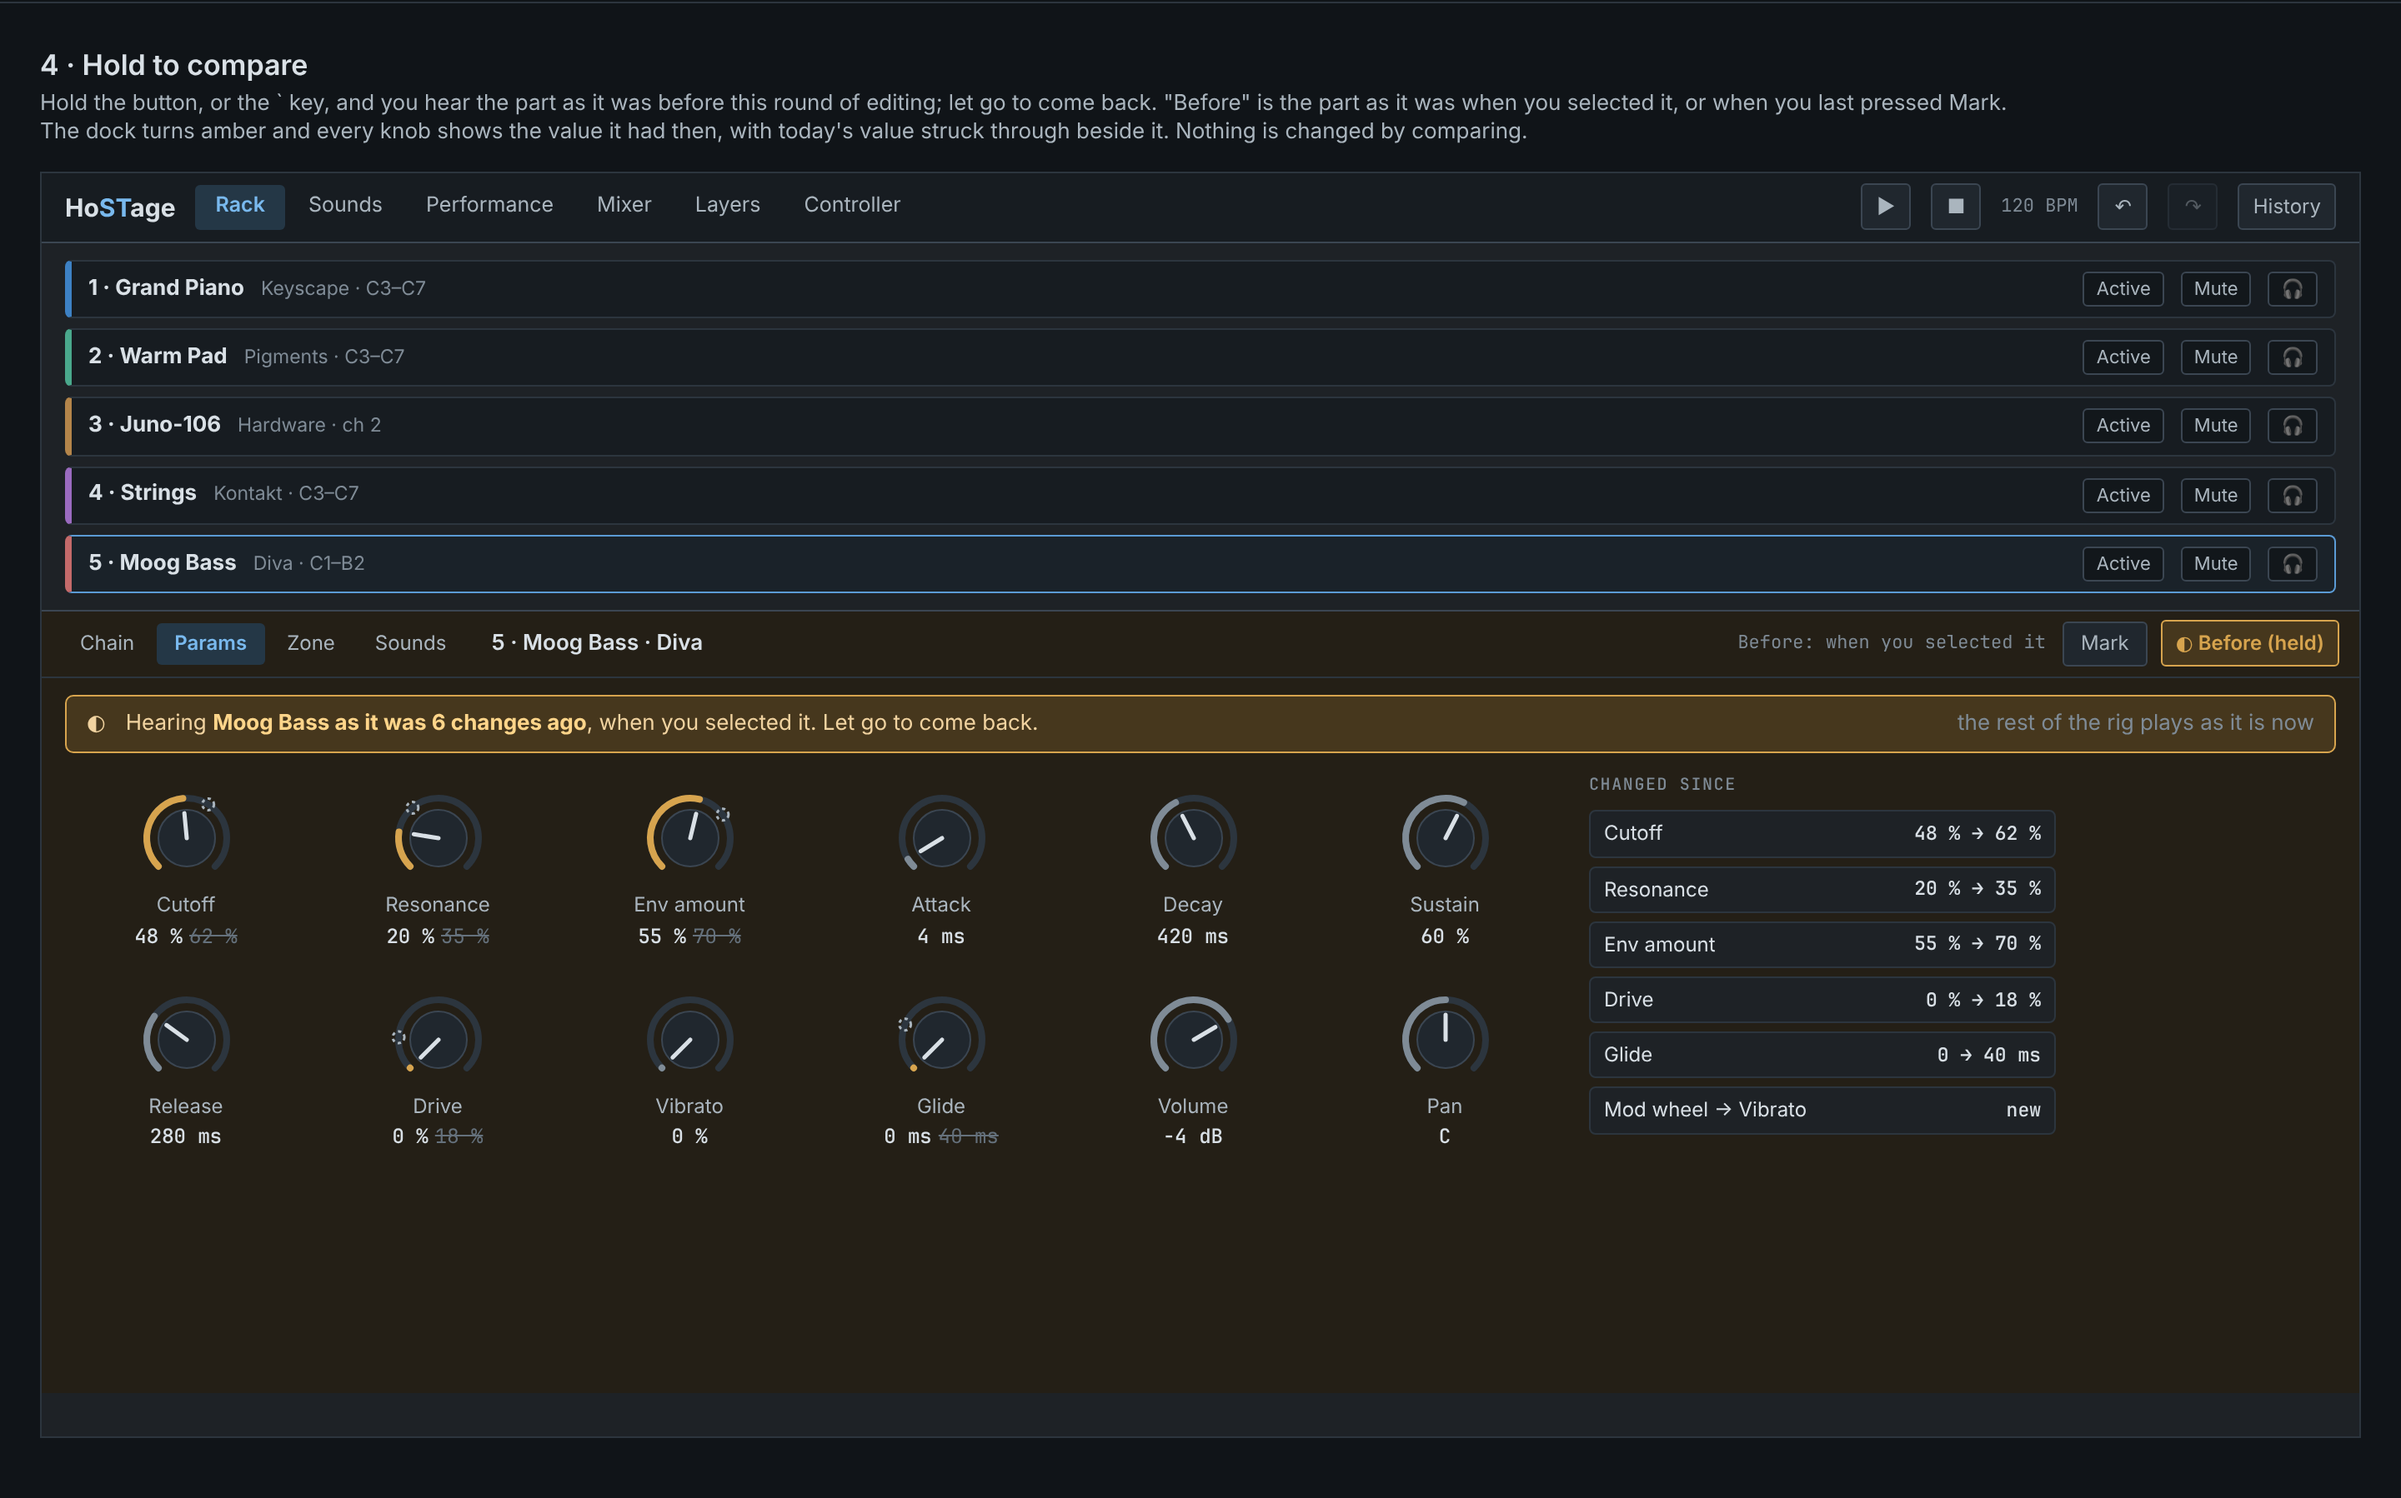
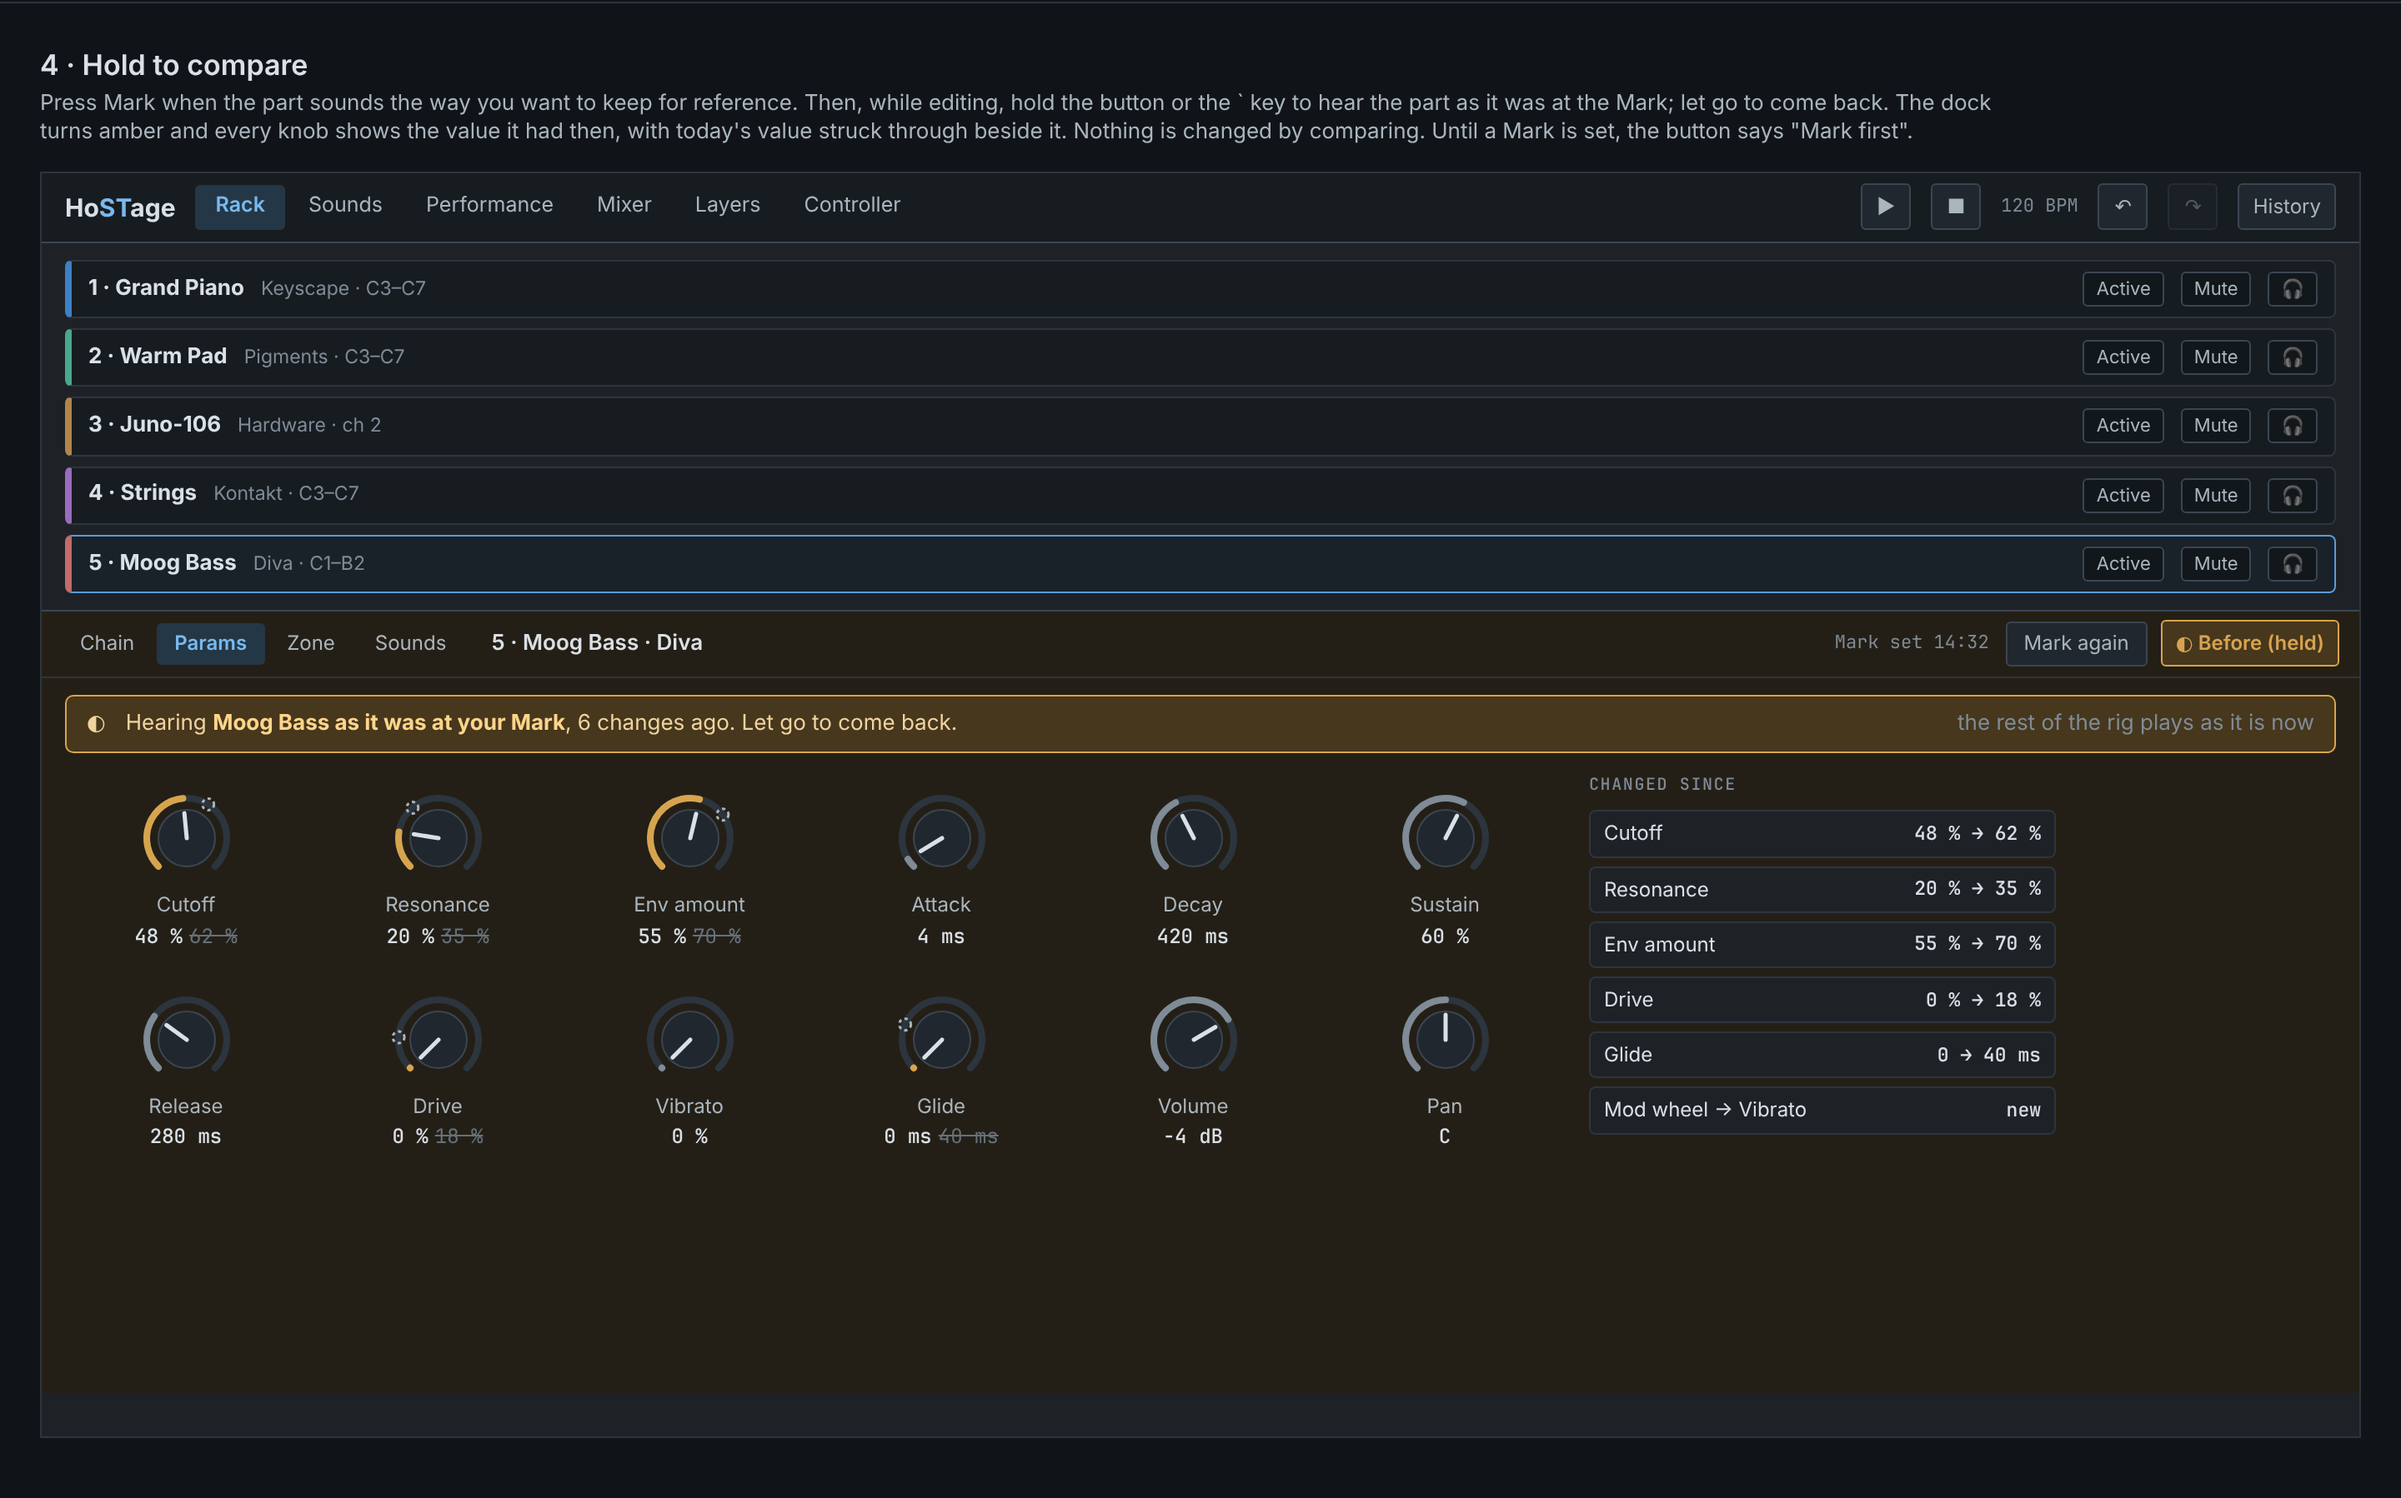
Design: Build-mode tools approved; compare is against the Mark only [skip ci]
The owner took the palette, undo and drag to modulate as drawn. For hold to compare, "before" is
only ever the Mark the player sets, not the moment a part is selected: selecting sets nothing, each
part keeps its Mark until it is set again, and until then the button says "Mark first". The
compare mockup is redrawn around the Mark.

Claude-Session: https://claude.ai/code/session_01HyVeCzB98iwNdttddkKjwm

Changed region(s): [[0.0, 0.0623, 0.8438, 0.0934], [0.1875, 0.4672, 0.4062, 0.4983], [0.75, 0.4049, 0.875, 0.436]]

diff --git a/docs/design/hostage-build-tools-mockups.html b/docs/design/hostage-build-tools-mockups.html
@@ -207,7 +207,7 @@
       <span class="sp"></span><span class="ib">▶</span><span class="ib">■</span><span class="stat">120 BPM</span><span class="ib">↶</span><span class="ib dis">↷</span><span class="ib">History</span></div>
     <div class="body" style="flex:none;height:220px"><div class="rack" id="rack3"></div></div>
     <div class="dock">
-      <div class="dtabs"><span class="tb">Chain</span><span class="tb on">Params</span><span class="tb">Zone</span><span class="tb">Sounds</span><span class="subj">5 · Moog Bass · Diva</span><span class="sp"></span><span class="ib">◐ Hold to compare</span></div>
+      <div class="dtabs"><span class="tb">Chain</span><span class="tb on">Params</span><span class="tb">Zone</span><span class="tb">Sounds</span><span class="subj">5 · Moog Bass · Diva</span><span class="sp"></span><span class="ghostb" style="margin-right:6px">Mark</span><span class="ib">◐ Hold to compare</span></div>
       <div class="dbody">
         <div class="srcs"><h5>Drag onto a knob</h5>
           <div class="src"><span class="dot" style="background:#79b9ee"></span>Mod wheel<small>CC 1</small></div>
@@ -238,9 +238,9 @@
 <section class="frame" id="f4">
   <div class="caption">
     <h2>4 · Hold to compare</h2>
-    <p>Hold the button, or the ` key, and you hear the part as it was before this round of editing; let go to come back. "Before" is the part
-      as it was when you selected it, or when you last pressed Mark. The dock turns amber and every knob shows the value it had then, with
-      today's value struck through beside it. Nothing is changed by comparing.</p>
+    <p>Press Mark when the part sounds the way you want to keep for reference. Then, while editing, hold the button or the ` key to hear the
+      part as it was at the Mark; let go to come back. The dock turns amber and every knob shows the value it had then, with today's value
+      struck through beside it. Nothing is changed by comparing. Until a Mark is set, the button says "Mark first".</p>
   </div>
   <div class="app" id="app4">
     <div class="hdr"><span class="logo">Ho<i>ST</i>age</span>
@@ -249,8 +249,8 @@
     <div class="body" style="flex:none;height:220px"><div class="rack" id="rack4"></div></div>
     <div class="dock before">
       <div class="dtabs"><span class="tb">Chain</span><span class="tb on">Params</span><span class="tb">Zone</span><span class="tb">Sounds</span><span class="subj">5 · Moog Bass · Diva</span><span class="sp"></span>
-        <span class="stat" style="margin-right:8px">Before: when you selected it</span><span class="ghostb">Mark</span><span class="ib hold" style="margin-left:6px">◐ Before (held)</span></div>
-      <div class="banner">◐ <span>Hearing <b>Moog Bass as it was 6 changes ago</b>, when you selected it. Let go to come back.</span><span class="sp"></span><span style="color:var(--dim)">the rest of the rig plays as it is now</span></div>
+        <span class="stat" style="margin-right:8px">Mark set 14:32</span><span class="ghostb">Mark again</span><span class="ib hold" style="margin-left:6px">◐ Before (held)</span></div>
+      <div class="banner">◐ <span>Hearing <b>Moog Bass as it was at your Mark</b>, 6 changes ago. Let go to come back.</span><span class="sp"></span><span style="color:var(--dim)">the rest of the rig plays as it is now</span></div>
       <div class="dbody">
         <div class="knobs" id="knobs4" style="max-width:900px"></div>
         <div class="conn"><h5>Changed since</h5>

diff --git a/docs/design/README.md b/docs/design/README.md
@@ -62,7 +62,7 @@ with an *as built* section per phase.
 | [HoSTage: Audio & MIDI set-up](hostage-audio-setup-design.md) | *Approved with mockups, 2026-11-17; nothing built.* Works out steps 2a and 2b of the HoSTage record and its line check. The Audio & MIDI page remembered: device types in plain words (Shared, Low latency, This program only, ASIO), the buffer in milliseconds, the round trip measured by loopback, dropouts per song, MIDI switches kept. A screen that maps a show's named connections to this interface once: inputs by playing into them, outputs by a quiet ident, MIDI ports by name, kept per interface. The mapping screen opens only when asked, never by itself; what is not settled is silent and says so. A LINE CHECK page on the CTRL49. Mockups in [hostage-audio-setup-mockups.html](hostage-audio-setup-mockups.html). |
 | [HoSTage: the Rack in Build mode](hostage-rack-build-design.md) | *Approved with mockups, 2026-11-17; nothing built.* The ease-of-use features the owner took that live on the Rack tab. Drag an instrument, sound or effect from the browser and drop it where it goes: on a key for a split (a bass takes the keys below), on a part's band for a layer, on a row to replace, between rows for a new part. Several parts selected and changed together, reorder by a grip, duplicate, effects dragged between parts, each part's processor load, an offer to even a part's level. "Why is this not sounding?": play a key and each row says whether it sounded and, if not, why. Mockups in [hostage-rack-build-mockups.html](hostage-rack-build-mockups.html). |
 | [HoSTage: Practice mode](hostage-practice-design.md) | *Approved with mockups, 2026-11-17; nothing built.* Learning any song from a MIDI or MusicXML file (sheet music as a PDF or photo is converted elsewhere), notes falling onto the keyboard: your hand in blue, the other played by HoSTage through your own rig. Tempo, wait for me, which hand, a loop with count-in; keys lit right or wrong with how early or late. Opening a song says who plays each track (you, the rig through your splits or one part, or off). After a run: right and on-time figures, the worst bars to loop, the runs so far. A PRACTICE page on the CTRL49. Mockups in [hostage-practice-mockups.html](hostage-practice-mockups.html). |
-| [HoSTage: Build-mode tools](hostage-build-tools-design.md) | *Design with mockups for approval, 2026-11-17; nothing built.* Four Build-mode features the owner took. A command palette (Ctrl+K, plain words, no AI) that acts on the part you are on and shows the gesture that does the same. Undo that covers loading plug-ins, sounds and presets and a plug-in's own window, with a History list in words. Drag a modulation source onto any knob, then drag its ring for depth. Hold to compare: hear the part as it was when you selected it. Mockups in [hostage-build-tools-mockups.html](hostage-build-tools-mockups.html). Four decisions for the owner. |
+| [HoSTage: Build-mode tools](hostage-build-tools-design.md) | *Approved with mockups, 2026-11-17; nothing built.* Four Build-mode features the owner took. A command palette (Ctrl+K, plain words, no AI) that acts on the part you are on and shows the gesture that does the same. Undo that covers loading plug-ins, sounds and presets and a plug-in's own window, with a History list in words. Drag a modulation source onto any knob, then drag its ring for depth. Hold to compare: hear the part as it was at the Mark you set. Mockups in [hostage-build-tools-mockups.html](hostage-build-tools-mockups.html). |
 | [The modular chain](modular-chain.md) | *As built.* Instruments, MIDI modules and inserts as separate things: the per-part MIDI insert chain that replaced the welded FX-into-arp pair (with its migration), group buses where several parts become one signal that keeps going, and chain presets that keep a whole voice — instrument, modules, inserts and zone — as one library record. Ends with what it deliberately does not do. |
 | [Reliability, diagnostics and the support bundle](instrument-host-reliability.md) | The baseline's §17 layer, built after the seven functionality stages: the architecture check that keeps an unloadable module out of the browser without calling it broken, safe startup after a plug-in takes the process down, a last-known-good session that is not the crash, and a support bundle gathered by allowlist. Carries the §18.12 handover material for the host as a whole — compatibility matrix, known limitations, failure fixtures and a manual test plan. |
 | [Feature-list completion audit](hostage-feature-completion-audit.md) | Evidence matrix for the 36 requested Hostage additions: persistent/native/UI/test ownership per item, permitted browser verification, and the two remaining completion gates (native rebuild and real out-of-process crash isolation). |

diff --git a/docs/design/hostage-build-tools-design.md b/docs/design/hostage-build-tools-design.md
@@ -1,6 +1,7 @@
 # HoSTage: Build-mode tools
 
-*Design with mockups for the owner to approve, 2026-11-17. Nothing built. It draws four features
+*Design with mockups, approved by the owner on 2026-11-17 with one change: "before" in hold to
+compare is only ever the Mark you set (decision 4). Nothing built. It draws four features
 the owner took in `hostage-wider-not-a-daw.md`: the command palette ("Build mode", 7), undo that
 covers everything ("Build mode", 1), drag to modulate and hold to compare ("Even more ease of use",
 2 and 5). They are decided; this record decides only how they look and behave. Mockups:
@@ -67,9 +68,12 @@ history, so it cannot be undone; changes made in a plug-in's own window are neve
 
 ![Hold to compare](../media/hostage-build-tools-4.png)
 
-- **Hold** the "◐ Hold to compare" button in the dock, or the ` key, and you hear the part as it was
-  before this round of editing. **Let go** to come back.
-- **Before** is the part as it was when you selected it, or when you last pressed **Mark**.
+- **Mark first.** Press **Mark** in the dock when the part sounds the way you want to keep for
+  reference. "Before" is only ever that Mark (decision 4): selecting a part sets nothing. Each part
+  keeps its own Mark until you press **Mark again**, for as long as the show is open. Until a part
+  has one, the compare button says "Mark first".
+- **Hold** the "◐ Hold to compare" button, or the ` key, and you hear the part as it was at the
+  Mark. **Let go** to come back.
 - **While held**, the dock turns amber; every knob shows its value then, with today's struck
   through; "Changed since" lists what differs. Only this part changes; the rest of the rig plays as
   it is now.
@@ -85,12 +89,15 @@ history, so it cannot be undone; changes made in a plug-in's own window are neve
 - **Undo**: the plug-in's state kept with a loading step; a state comparison when a plug-in's
   window closes; the step limit by memory; the History list.
 - **Drag to modulate**: the sources as drag sources, every knob as a drop target, and the ring.
-- **Hold to compare**: a snapshot of the part when it is selected or marked, swapped in and out
-  without a history step.
+- **Hold to compare**: a snapshot of the part when it is marked, swapped in and out without a
+  history step.
 
-## Decisions for the owner
+## Decisions (owner, 2026-11-17)
 
-1. **The palette**: Ctrl+K, a fixed list of words (no AI), acting on the part you are on?
-2. **A plug-in's own window as one undo step** per visit, and a hundred steps?
-3. **Modulation depth by dragging the ring**, double-click to remove, new connections at 25 %?
-4. **"Before" is when you selected the part, or Mark**, held with the button or the ` key?
+1. **The palette**: Ctrl+K, a fixed list of words (no AI), acting on the part you are on. **Yes.**
+2. **A plug-in's own window as one undo step** per visit, and a hundred steps. **Yes.**
+3. **Modulation depth by dragging the ring**, double-click to remove, new connections at 25 %.
+   **Yes.**
+4. **What "before" is.** Proposed: when you selected the part, or Mark. **Taken: the Mark only**
+   ("when you selected the mark"). Selecting a part sets nothing; until a part is marked, there is
+   nothing to compare with. Held with the button or the ` key, as proposed.
